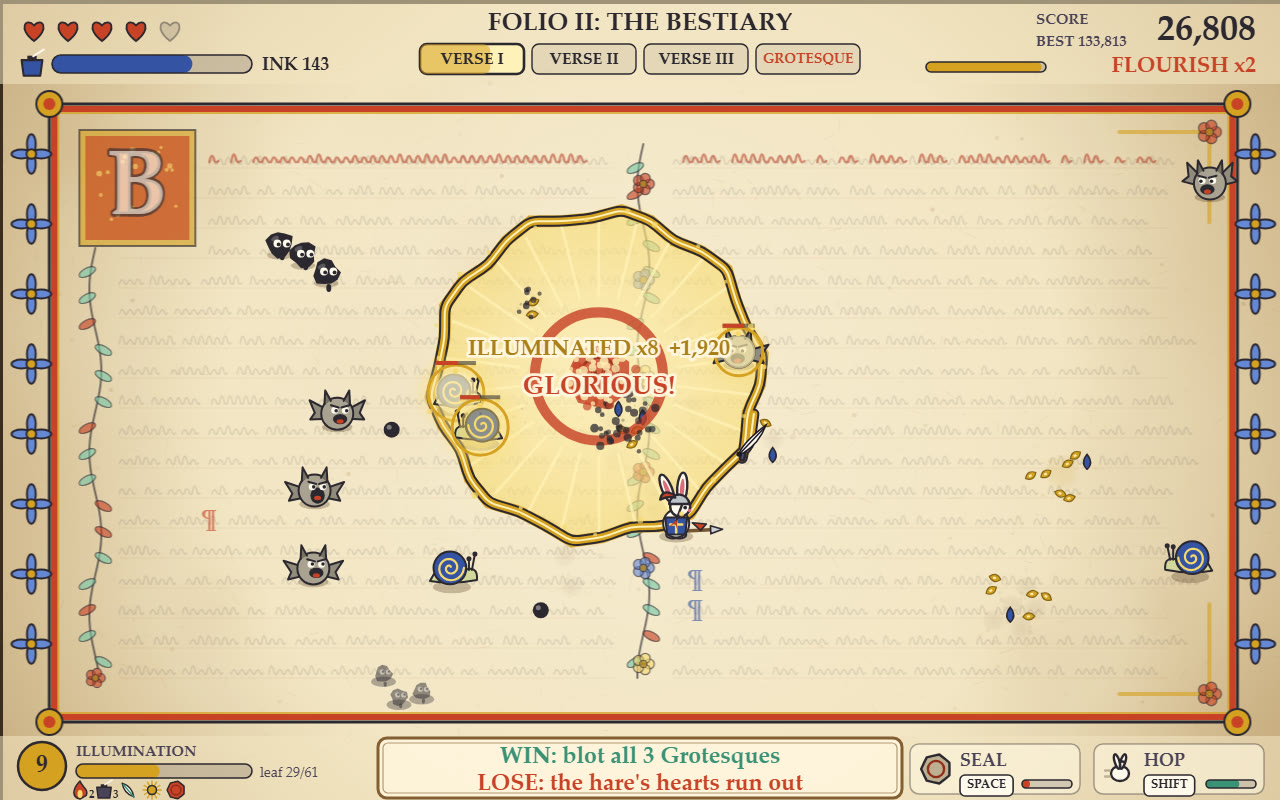
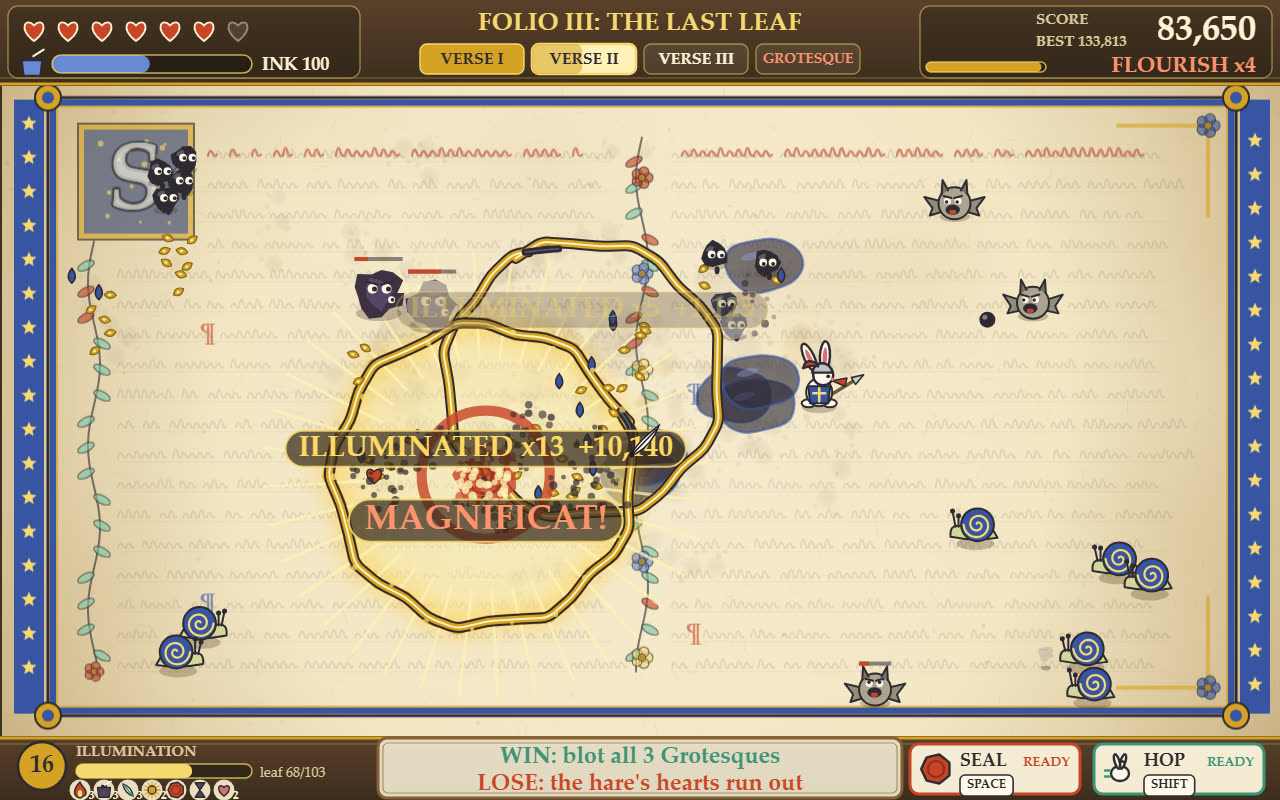
v5: leather-binding HUD with gold rules, popups on dark lozenges, burnished gold loops, crowded central cover

diff --git a/game/src/ui/hud.js b/game/src/ui/hud.js
@@ -12,31 +12,69 @@ import { bar, keyCap, panel, roundRect, text } from './widgets.js';
 
 const fmt = (n) => Math.round(n).toLocaleString('en-US');
 
+// The HUD is the manuscript's leather binding: dark tooled bands with gold rules and light lettering.
+const CREAM = '#fff3d6';
+const MUTED = '#d9c49a';
+const BRIGHT_RED = '#ff8a66';
+const TROUGH = 'rgba(0, 0, 0, 0.45)';
+const RULE = 'rgba(247, 215, 106, 0.75)';
+const darkBar = (ctx, x, y, w, h, frac, color) => bar(ctx, x, y, w, h, frac, color, TROUGH, RULE);
+
+/** A recessed panel in the binding. */
+function inset(ctx, x, y, w, h) {
+  ctx.fillStyle = 'rgba(0, 0, 0, 0.28)';
+  roundRect(ctx, x, y, w, h, 10);
+  ctx.fill();
+  ctx.strokeStyle = 'rgba(247, 215, 106, 0.45)';
+  ctx.lineWidth = 1.5;
+  ctx.stroke();
+}
+
+function binding(ctx, y0, y1, ruleY) {
+  const g = ctx.createLinearGradient(0, y0, 0, y1);
+  g.addColorStop(0, '#4a2f1d');
+  g.addColorStop(1, '#2b1a10');
+  ctx.fillStyle = g;
+  ctx.fillRect(0, y0, VIEW.w, y1 - y0);
+  ctx.strokeStyle = PALETTE.gold;
+  ctx.lineWidth = 3;
+  ctx.beginPath();
+  ctx.moveTo(0, ruleY);
+  ctx.lineTo(VIEW.w, ruleY);
+  ctx.stroke();
+  ctx.strokeStyle = 'rgba(247, 215, 106, 0.35)';
+  ctx.lineWidth = 1;
+  ctx.beginPath();
+  ctx.moveTo(0, ruleY + (ruleY > y0 + 10 ? -6 : 6));
+  ctx.lineTo(VIEW.w, ruleY + (ruleY > y0 + 10 ? -6 : 6));
+  ctx.stroke();
+}
+
 function drawHeartsAndInk(ctx, run, time) {
   const p = run.player;
   for (let i = 0; i < p.maxHearts; i += 1) {
     const full = i < p.hearts;
     const beat = full && i === p.hearts - 1 && p.hearts <= 2 ? 1 + Math.sin(time * 10) * 0.12 : 1;
-    drawHeartShape(ctx, 34 + i * 34, 30, 13 * beat, full ? PALETTE.vermilion : 'rgba(28,24,38,0.12)', full ? PALETTE.ink : 'rgba(28,24,38,0.4)');
+    drawHeartShape(ctx, 34 + i * 34, 30, 13 * beat, full ? PALETTE.vermilion : 'rgba(255,243,214,0.1)', full ? CREAM : 'rgba(255,243,214,0.45)');
   }
   const ink = run.ink;
-  drawIcon(ctx, 'well', 32, 64, 26, PALETTE.lapis);
+  drawIcon(ctx, 'well', 32, 64, 26, PALETTE.lapisLight);
   const dry = ink.dryFlash > 0 && Math.floor(time * 10) % 2 === 0;
-  bar(ctx, 52, 55, 200, 18, ink.level / ink.max, dry ? PALETTE.vermilion : PALETTE.lapis);
-  text(ctx, `INK ${Math.floor(ink.level)}`, 262, 70, { size: 18, color: dry ? PALETTE.vermilion : PALETTE.ink });
+  darkBar(ctx, 52, 55, 200, 18, ink.level / ink.max, dry ? PALETTE.vermilion : PALETTE.lapisLight);
+  text(ctx, `INK ${Math.floor(ink.level)}`, 262, 70, { size: 18, color: dry ? BRIGHT_RED : CREAM });
 }
 
 function drawFolioLine(ctx, run) {
   const folio = FOLIOS[run.folio];
   const cx = VIEW.w / 2;
-  text(ctx, `FOLIO ${NUMERALS[run.folio]}: ${folio.title.toUpperCase()}`, cx, 30, { size: 25, color: PALETTE.ink, align: 'center' });
+  text(ctx, `FOLIO ${NUMERALS[run.folio]}: ${folio.title.toUpperCase()}`, cx, 30, { size: 25, color: PALETTE.goldLight, align: 'center' });
   if ((run.stage === 'boss' || run.stage === 'bossIntro') && run.boss) {
     const boss = run.boss;
     const def = BOSSES[boss.kind];
-    text(ctx, def.name + (boss.armored && boss.crack <= 0 ? '  (SHELL: loop it!)' : boss.phase2 ? '  (ENRAGED)' : ''), cx, 54, { size: 17, color: PALETTE.vermilion, align: 'center' });
-    bar(ctx, cx - 250, 62, 500, 16, boss.hp / boss.maxHp, PALETTE.vermilion);
+    text(ctx, def.name + (boss.armored && boss.crack <= 0 ? '  (SHELL: loop it!)' : boss.phase2 ? '  (ENRAGED)' : ''), cx, 54, { size: 17, color: BRIGHT_RED, align: 'center' });
+    darkBar(ctx, cx - 250, 62, 500, 16, boss.hp / boss.maxHp, PALETTE.vermilion);
   } else if (run.stage === 'bossIntro') {
-    text(ctx, 'A GROTESQUE APPROACHES', cx, 62, { size: 20, color: PALETTE.vermilion, align: 'center' });
+    text(ctx, 'A GROTESQUE APPROACHES', cx, 62, { size: 20, color: BRIGHT_RED, align: 'center' });
   } else {
     const verseLength = folio.verses[run.verse].length;
     const pips = folio.verses.length + 1;
@@ -47,10 +85,10 @@ function drawFolioLine(ctx, run) {
       const done = i < run.verse || run.stage === 'folioDone';
       const now = i === run.verse && run.stage === 'verse';
       const x = x0 + i * w + 4;
-      ctx.fillStyle = done ? PALETTE.gold : now ? PALETTE.goldPale : 'rgba(28,24,38,0.08)';
+      ctx.fillStyle = done ? PALETTE.gold : now ? PALETTE.goldPale : 'rgba(255,243,214,0.08)';
       roundRect(ctx, x, 44, w - 8, 30, 7);
       ctx.fill();
-      ctx.strokeStyle = PALETTE.ink;
+      ctx.strokeStyle = now || done ? PALETTE.goldLight : 'rgba(247,215,106,0.5)';
       ctx.lineWidth = now ? 2.6 : 1.4;
       ctx.stroke();
       if (now) {
@@ -58,22 +96,22 @@ function drawFolioLine(ctx, run) {
         roundRect(ctx, x, 44, (w - 8) * Math.min(1, run.verseTime / verseLength), 30, 7);
         ctx.fill();
       }
-      text(ctx, isBoss ? 'GROTESQUE' : `VERSE ${NUMERALS[i]}`, x + (w - 8) / 2, 60, { size: isBoss ? 14 : 16, color: isBoss ? PALETTE.vermilion : PALETTE.ink, align: 'center', baseline: 'middle' });
+      text(ctx, isBoss ? 'GROTESQUE' : `VERSE ${NUMERALS[i]}`, x + (w - 8) / 2, 60, { size: isBoss ? 14 : 16, color: isBoss ? (done || now ? PALETTE.vermilion : BRIGHT_RED) : done || now ? PALETTE.ink : CREAM, align: 'center', baseline: 'middle' });
     }
   }
 }
 
 function drawScore(ctx, run, best, time) {
   const right = VIEW.w - 24;
-  text(ctx, 'SCORE', right - 220, 24, { size: 15, color: PALETTE.inkSoft });
-  text(ctx, fmt(run.score), right, 40, { size: 36, align: 'right', color: PALETTE.ink });
-  text(ctx, `BEST ${fmt(Math.max(best, run.score))}`, right - 220, 46, { size: 15, color: PALETTE.inkSoft });
+  text(ctx, 'SCORE', right - 220, 24, { size: 15, color: MUTED });
+  text(ctx, fmt(run.score), right, 40, { size: 36, align: 'right', color: CREAM });
+  text(ctx, `BEST ${fmt(Math.max(best, run.score))}`, right - 220, 46, { size: 15, color: MUTED });
   const f = run.flourish;
   const live = f.timer > 0;
   const mult = `FLOURISH x${f.mult}`;
   const pulse = live && f.mult > 1 ? 1 + Math.sin(time * 12) * 0.05 : 1;
-  text(ctx, mult, right, 72, { size: Math.round(22 * pulse), align: 'right', color: f.mult > 1 ? PALETTE.vermilion : live ? PALETTE.ink : 'rgba(28,24,38,0.4)' });
-  if (live) bar(ctx, right - 330, 62, 120, 10, f.timer / FLOURISH_WINDOW, PALETTE.gold);
+  text(ctx, mult, right, 72, { size: Math.round(22 * pulse), align: 'right', color: f.mult > 1 ? BRIGHT_RED : live ? CREAM : 'rgba(255,243,214,0.4)' });
+  if (live) darkBar(ctx, right - 330, 62, 120, 10, f.timer / FLOURISH_WINDOW, PALETTE.gold);
 }
 
 function drawBottom(ctx, run, time) {
@@ -87,15 +125,19 @@ function drawBottom(ctx, run, time) {
   ctx.lineWidth = 2.5;
   ctx.stroke();
   text(ctx, `${run.level}`, 42, y + 31, { size: 24, align: 'center', baseline: 'middle' });
-  text(ctx, 'ILLUMINATION', 76, y + 20, { size: 15, color: PALETTE.inkSoft });
-  bar(ctx, 76, y + 28, 176, 14, run.xp / run.xpNext, PALETTE.gold);
-  text(ctx, `leaf ${run.xp}/${run.xpNext}`, 260, y + 41, { size: 14, color: PALETTE.inkSoft, weight: 'normal' });
+  text(ctx, 'ILLUMINATION', 76, y + 20, { size: 15, color: MUTED });
+  darkBar(ctx, 76, y + 28, 176, 14, run.xp / run.xpNext, PALETTE.goldLight);
+  text(ctx, `leaf ${run.xp}/${run.xpNext}`, 260, y + 41, { size: 14, color: MUTED, weight: 'normal' });
   // rubric strip
   let x = 80;
   const owned = RUBRICS.filter((r) => run.rubrics[r.id]);
   for (const r of owned) {
-    drawIcon(ctx, r.icon, x, y + 54, 18, r.color);
-    if (run.rubrics[r.id] > 1) text(ctx, `${run.rubrics[r.id]}`, x + 9, y + 62, { size: 11 });
+    ctx.fillStyle = 'rgba(255, 243, 214, 0.9)';
+    ctx.beginPath();
+    ctx.arc(x, y + 54, 10.5, 0, Math.PI * 2);
+    ctx.fill();
+    drawIcon(ctx, r.icon, x, y + 54, 16, r.color);
+    if (run.rubrics[r.id] > 1) text(ctx, `${run.rubrics[r.id]}`, x + 9, y + 63, { size: 11, color: CREAM });
     x += 24;
     if (x > 380) break;
   }
@@ -169,9 +211,10 @@ function drawFirstLoopHint(ctx, run, time) {
 }
 
 export function drawHud(ctx, run, best, time) {
-  ctx.fillStyle = 'rgba(242, 228, 195, 0.55)';
-  ctx.fillRect(0, 0, VIEW.w, HUD.topBand - 2);
-  ctx.fillRect(0, HUD.bottomBand, VIEW.w, VIEW.h - HUD.bottomBand);
+  binding(ctx, 0, HUD.topBand, HUD.topBand - 2);
+  binding(ctx, HUD.bottomBand, VIEW.h, HUD.bottomBand + 2);
+  inset(ctx, 8, 6, 352, HUD.topBand - 14);
+  inset(ctx, 920, 6, 352, HUD.topBand - 14);
   drawHeartsAndInk(ctx, run, time);
   drawFolioLine(ctx, run);
   drawScore(ctx, run, best, time);

diff --git a/game/src/art/effects.js b/game/src/art/effects.js
@@ -115,6 +115,20 @@ export function drawParticles(ctx, fx) {
   ctx.globalAlpha = 1;
 }
 
+/** Popup ink colours lifted to their bright versions for the dark lozenges. */
+const BRIGHT = { '#a5760c': '#ffd75e', '#c4351c': '#ff8a66', '#2647a3': '#9db8ff' };
+
+function roundPill(ctx, x, y, w, h) {
+  const r = h / 2;
+  ctx.beginPath();
+  ctx.moveTo(x + r, y);
+  ctx.arcTo(x + w, y, x + w, y + h, r);
+  ctx.arcTo(x + w, y + h, x, y + h, r);
+  ctx.arcTo(x, y + h, x, y, r);
+  ctx.arcTo(x, y, x + w, y, r);
+  ctx.closePath();
+}
+
 export function drawPopups(ctx, fx) {
   ctx.textAlign = 'center';
   ctx.textBaseline = 'middle';
@@ -123,12 +137,28 @@ export function drawPopups(ctx, fx) {
     const rise = pop.age * 40;
     const pulse = pop.age < 0.15 ? 1 + (0.15 - pop.age) * 3 : 1;
     ctx.globalAlpha = t < 0.7 ? 1 : 1 - (t - 0.7) / 0.3;
-    ctx.font = `bold ${Math.round(pop.size * pulse)}px ${FONT}`;
-    ctx.lineWidth = 5;
-    ctx.strokeStyle = 'rgba(255, 248, 228, 0.95)';
-    ctx.strokeText(pop.text, pop.x, pop.y - rise);
-    ctx.fillStyle = pop.color;
-    ctx.fillText(pop.text, pop.x, pop.y - rise);
+    const size = Math.round(pop.size * 1.3 * pulse);
+    ctx.font = `bold ${size}px ${FONT}`;
+    const x = Math.max(80, Math.min(VIEW.w - 80, pop.x));
+    const y = pop.y - rise;
+    if (pop.size >= 20) {
+      // the big ones sit on a dark lozenge, bright enough to read across the page
+      const w = ctx.measureText(pop.text).width + size * 0.9;
+      ctx.fillStyle = 'rgba(36, 22, 14, 0.72)';
+      roundPill(ctx, x - w / 2, y - size * 0.62, w, size * 1.24);
+      ctx.fill();
+      ctx.strokeStyle = 'rgba(247, 215, 106, 0.85)';
+      ctx.lineWidth = 2;
+      ctx.stroke();
+      ctx.fillStyle = BRIGHT[pop.color] || '#fff3d6';
+      ctx.fillText(pop.text, x, y + 1);
+    } else {
+      ctx.lineWidth = 5;
+      ctx.strokeStyle = 'rgba(255, 248, 228, 0.95)';
+      ctx.strokeText(pop.text, x, y);
+      ctx.fillStyle = pop.color;
+      ctx.fillText(pop.text, x, y);
+    }
   }
   ctx.globalAlpha = 1;
 }

diff --git a/game/src/shots.js b/game/src/shots.js
@@ -57,10 +57,16 @@ const SCENES = {
     earlierRuns(ledger, [seed + 100], 'scribe');
     // a patient hand (it waits for a crowd of six before it draws) keeps ink in the well, so the
     // cover catches a big loop through a crowded page with ink to spare and a Flourish chain running
-    let game = newGame(seed, 'scribe', true, 6);
+    // from this seed on, the first run whose page holds that moment with a crowd still around it
     const crowded = (run) => run.foes.filter((f) => !f.dead).length;
-    const good = (run, events) => run.time >= 130 && crowded(run) >= 15 && run.ink.level >= run.ink.max * 0.4 && run.flourish.mult >= 2 && events.some((e) => e.type === 'loop' && e.n >= 7);
-    if (!playUntil(game, good, 400)) {
+    const good = (run, events) => run.time >= 130 && crowded(run) >= 20 && run.ink.level >= run.ink.max * 0.4 && run.flourish.mult >= 2 && events.some((e) => e.type === 'loop' && e.n >= 7 && Math.abs(e.x - 640) < 280 && Math.abs(e.y - 410) < 170);
+    let game = null;
+    let found = false;
+    for (let s = seed; s < seed + 12 && !found; s += 1) {
+      game = newGame(s, 'scribe', true, 6);
+      found = playUntil(game, good, 420);
+    }
+    if (!found) {
       game = newGame(seed, 'scribe');
       playUntil(game, (run) => run.time >= 168, 400);
       playUntil(game, (run, events) => crowded(run) >= 22 && events.some((e) => e.type === 'loop' && e.n >= 5), 120);

diff --git a/game/src/art/inkArt.js b/game/src/art/inkArt.js
@@ -56,14 +56,21 @@ export function drawIlluminations(ctx, ink, time) {
     ctx.closePath();
     const r = 40 + loop.n * 18;
     const g = ctx.createRadialGradient(loop.x, loop.y, 0, loop.x, loop.y, r * 2);
-    g.addColorStop(0, PALETTE.goldPale);
-    g.addColorStop(0.5, PALETTE.goldLight);
-    g.addColorStop(1, PALETTE.gold);
+    // burnished gold leaf: bright at the heart, deep amber at the rim, with a glow around the line
+    g.addColorStop(0, 'rgba(255, 246, 200, 0.55)');
+    g.addColorStop(0.45, PALETTE.goldLight);
+    g.addColorStop(1, '#c47f0a');
     ctx.fillStyle = g;
     ctx.fill();
     ctx.globalAlpha = alpha;
+    ctx.shadowColor = 'rgba(255, 196, 40, 0.9)';
+    ctx.shadowBlur = 22;
     ctx.strokeStyle = PALETTE.gold;
     ctx.lineWidth = 5 + 8 * (1 - t);
+    ctx.stroke();
+    ctx.shadowBlur = 0;
+    ctx.strokeStyle = 'rgba(255, 250, 225, 0.9)';
+    ctx.lineWidth = 2;
     ctx.stroke();
     if (loop.n > 0) {
       ctx.strokeStyle = `rgba(255, 241, 184, ${alpha})`;

diff --git a/game/src/ui/widgets.js b/game/src/ui/widgets.js
@@ -52,7 +52,7 @@ export function panel(ctx, x, y, w, h, opts = {}) {
   ctx.stroke();
 }
 
-export function bar(ctx, x, y, w, h, frac, color, back = 'rgba(28, 24, 38, 0.18)') {
+export function bar(ctx, x, y, w, h, frac, color, back = 'rgba(28, 24, 38, 0.18)', edge = PALETTE.ink) {
   ctx.fillStyle = back;
   roundRect(ctx, x, y, w, h, h / 2);
   ctx.fill();
@@ -62,7 +62,7 @@ export function bar(ctx, x, y, w, h, frac, color, back = 'rgba(28, 24, 38, 0.18)
     roundRect(ctx, x, y, Math.max(h, w * f), h, h / 2);
     ctx.fill();
   }
-  ctx.strokeStyle = PALETTE.ink;
+  ctx.strokeStyle = edge;
   ctx.lineWidth = 1.6;
   roundRect(ctx, x, y, w, h, h / 2);
   ctx.stroke();

diff --git a/game/src/sim/ink.js b/game/src/sim/ink.js
@@ -166,7 +166,7 @@ export function illuminate(run, loop) {
   const label = n > 1 ? `ILLUMINATED x${n}  +#` : 'ILLUMINATED  +#';
   addScore(run, 15 * n * n, center.x, center.y - 20, true, label);
   if (n >= 4 && rubricLevel(run, 'dropcap') > 0) castSeal(run, center.x, center.y, true);
-  if (n >= 6) popup(run, center.x, center.y + 18, n >= 10 ? 'MAGNIFICAT!' : 'GLORIOUS!', '#c4351c', 26);
+  if (n >= 6) popup(run, center.x, center.y + 52, n >= 10 ? 'MAGNIFICAT!' : 'GLORIOUS!', '#c4351c', 26);
   emit(run, 'loop', { n, x: center.x, y: center.y, poly: loop });
   return n;
 }
